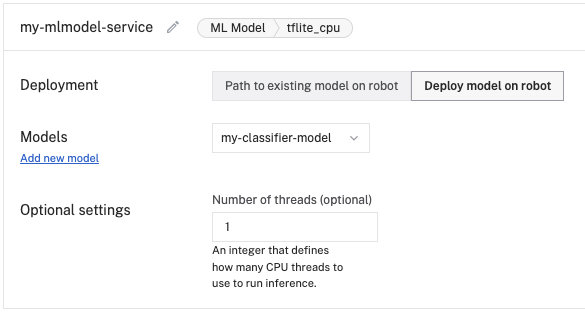
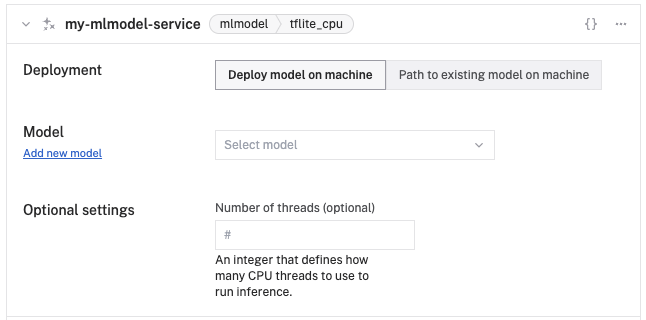
DOCS-1935: Update data-mlmodel tutorial (#2828)

diff --git a/docs/tutorials/services/data-mlmodel-tutorial.md b/docs/tutorials/services/data-mlmodel-tutorial.md
@@ -96,7 +96,7 @@ To enable image data capture for a camera component:
 
 1. Navigate to your machine's **CONFIGURE** page in the [Viam app](https://app.viam.com).
 
-1. In the configuration pane for your [configured camera component](#prerequisites), find the **Data capture** section, and click the **Add method** button to enable data capture for this camera.
+1. In the configuration pane for your [configured camera component](#prerequisites), find the **Data capture** section, and click the **Add method** button to configure data capture for this camera.
 
    - Set the **Method** to `ReadImage` and the **Frequency** to `0.333`.
      This will capture an image from the camera roughly once every 3 seconds.
@@ -106,7 +106,9 @@ To enable image data capture for a camera component:
 
      {{< imgproc src="/tutorials/data-management/camera-data-capture.png" alt="The camera component configuration pane with data capture configuration enabled using type ReadImage and a capture frequency of 0.333" resize="600x" >}}
 
-1. Click **Save Config** at the bottom of the window to save your changes.
+   - Toggle the **On/Off** switch to **On**.
+
+1. Click **Save** at the top right of the window to save your changes.
 
 For more information see [Configure data capture](/data/capture/#configure-data-capture-for-individual-components) and [Configure cloud sync](/data/cloud-sync/).
 
@@ -220,13 +222,15 @@ Once your model has finished training, add the [ML model](/ml/) service and depl
 
 To deploy a model to your machine:
 
-1. On your machine's **CONFIGURE** page in the [Viam app](https://app.viam.com), navigate to the **Services** tab.
-1. Click the **Create service** button at the bottom of the page, and select **ML Model**, then select **TFLite CPU**.
-1. Use the suggested name for your service or give it a name, like `my-mlmodel-service`, then click **Create**.
-1. In the resulting ML Model service configuration pane, select **Deploy model on robot**, then select the model you just trained from the **Models** dropdown menu.
-1. Click **Save Config** at the bottom of the window to save your changes.
+1. Navigate to the **CONFIGURE** tab of your machine's page in [the Viam app](https://app.viam.com).
+1. Click the **+** icon next to your machine part in the left-hand menu and select **Service**.
+1. Select the `ML model` type, then select the `TFLite CPU` model.
+1. Enter a name or use the suggested name, like `my-mlmodel-service`, for your service and click **Create**.
+1. In the resulting ML Model service configuration pane, select **Deploy model on machine**, then select the model you just trained from the **Select model** dropdown menu.
 
    {{< imgproc src="/tutorials/data-management/mlmodel-service-conf.png" alt="The ML model service configuration pane showing the required settings to deploy the my-classifier-model." resize="600x" >}}
+
+1. Click **Save** at the top right of the window to save your changes.
 
 ## The vision service
 
@@ -237,9 +241,9 @@ You can then see the tagged objects on the **Control** tab.
 
 ### Add the vision service
 
-1. On your machine's **CONFIGURE** page in the [Viam app](https://app.viam.com), navigate to the **Services** tab.
-1. Click the **Create service** button at the bottom of the page, and select **Vision**, then select **ML Model**.
-1. Use the suggested name for your service or give it a name, like `my-vision-service`, then click **Create**.
+1. Click the **+** icon next to your machine part in the left-hand menu and select **Service**.
+1. Select the `vision` type, then select the `ML model` model.
+1. Enter a name, like `my-vision-service`, or use the suggested name for your service and click **Create**.
 1. In the resulting vision service configuration pane, select the ML model service you just added from the **ML Model** dropdown menu.
 
    {{< imgproc src="/tutorials/data-management/vision-service-conf.png" alt="The vision service configuration pane showing the ML model service my-mlmodel-service added" resize="500x" >}}

diff --git a/docs/ml/deploy/tflite_cpu.md b/docs/ml/deploy/tflite_cpu.md
@@ -33,9 +33,9 @@ Enter a name or use the suggested name for your service and click **Create**.
 You can choose to configure your service with an existing model on the machine or deploy a model onto your machine:
 
 {{< tabs >}}
-{{% tab name="Deploy Model on Robot" %}}
+{{% tab name="Deploy Model on Machine" %}}
 
-1. To configure your service and deploy a model onto your machine, select **Deploy model on robot** for the **Deployment** field.
+1. To configure your service and deploy a model onto your machine, select **Deploy model on machine** for the **Deployment** field in the resulting vision service configuration pane,.
 
 2. Click on **Select models** to open a dropdown with all of the ML models available to you privately, as well as all of the ML models available in [the registry](https://app.viam.com), which are shared by users.
    Models that your organization has trained that are not uploaded to the registry will appear first in the dropdown.
@@ -128,9 +128,9 @@ The following parameters are available for a `"tflite_cpu"` model:
 | `num_threads` | Optional | An integer that defines how many CPU threads to use to run inference. Default: `1`. |
 
 {{% alert title="Note" color="note" %}}
-If you **Deploy model on robot**, `model_path` and `label_path` will be automatically configured in the format `"${packages.<model_name>}/<model-name>.tflite"` and `"${packages.<model_name>}/labels.txt"` respectively.
+If you **Deploy model on machine**, `model_path` and `label_path` will be automatically configured in the format `"${packages.<model_name>}/<model-name>.tflite"` and `"${packages.<model_name>}/labels.txt"` respectively.
 
-If you take the **Path to existing model on robot** approach, your model and label paths do not have to be in the same format.
+If you take the **Path to existing model on machine** approach, your model and label paths do not have to be in the same format.
 For example, they might resemble `home/models/fruit/my_fruit_model.tflite`.
 {{% /alert %}}
 

diff --git a/docs/tutorials/projects/filtered-camera.md b/docs/tutorials/projects/filtered-camera.md
@@ -235,12 +235,10 @@ Add the ML model service to your machine to be able to deploy and update ML mode
 1. Navigate to your machine's **CONFIGURE** tab in the [Viam app](https://app.viam.com).
 1. Click the **+** (Create) button next to your main part in the left-hand menu and select **Service**, then select the built-in `TFLite CPU` model.
 1. Use the suggested name for your service or give it a name, like `my-mlmodel-service`, then click **Create**.
-1. On the panel that appears, select the **Deploy model on robot** toggle, then select your model from the **Select model** dropdown.
+1. On the panel that appears, select the **Deploy model on machine** toggle, then select your model from the **Select model** dropdown.
    If you don't see your model name appear here, ensure that your model appears under the [**Models** subtab](https://app.viam.com/data/models) of the **DATA** tab in the Viam app.
    If you trained your own model, ensure that the model has finished training and appears under the **Models** section of that page, and not the **Training** section.
 1. Click **Save** in the top right corner of the page to save your changes.
-
-   {{< imgproc src="/tutorials/filtered-camera-module/configure-mlmodel-service.png" alt="The ML model service configuration pane with deploy model on robot selected, and the my-viam-figure-model added" resize="600x" >}}
 
 For more information, see [Create an ML model service](/ml/deploy/).
 

diff --git a/docs/tutorials/projects/integrating-viam-with-openai.md b/docs/tutorials/projects/integrating-viam-with-openai.md
@@ -246,7 +246,7 @@ To configure an ML model service:
 
 Your robot will register this as a machine learning model and make it available for use.
 
-Select **Deploy model on robot** for the **Deployment** field.
+Select **Deploy model on machine** for the **Deployment** field.
 Then select the `viam-labs:EfficientDet-COCO` model from the **Models** dropdown.
 
 Now, create a vision service to visualize your ML model:
@@ -254,13 +254,13 @@ Now, create a vision service to visualize your ML model:
 - Select the **CONFIGURE** tab.
 - Click the **+** icon next to your machine part in the left-hand menu and select **Service**.
 - Select the `vision` type, then select the `ML model` model.
-- Enter the name `vis-stuff-detector` for your service and click **Create**.
+- Enter the name `mlmodel` for your service and click **Create**.
 
 Your companion robot will use this to interface with the machine learning model allowing you to - well, detect stuff!
 
 Select the model that you added in the previous step in the **ML Model** field of your detector:
 
-{{< imgproc src="/tutorials/ai-integration/detector-panel.png" alt="Adding the ML model service to the detector panel." resize="1000x" style="width:450px" >}}
+{{<imgproc src="/services/deploy-model-menu.png" resize="700x" alt="Models dropdown menu with models from the registry.">}}
 
 Click **Save** in the top-right corner of the page to save your config.
 

diff --git a/docs/tutorials/projects/verification-system.md b/docs/tutorials/projects/verification-system.md
@@ -92,7 +92,7 @@ The model can detect a variety of things which you can see in <file>[labels.txt]
 2. Click the **+** icon next to your machine part in the left-hand menu and select **Service**.
 3. Select type `ML model`, then select model `TFLite CPU`.
 4. Enter `persondetect` as the name for your ML model service, then click **Create**.
-5. Select **Deploy model on robot** for the **Deployment** field.
+5. Select **Deploy model on machine** for the **Deployment** field.
 6. Then select the `viam-labs:EfficientDet-COCO` model from the **Select models** dropdown.
 
 Finally, configure an `mlmodel` detector vision service to use your new `"persondetect"` ML model:

diff --git a/docs/tutorials/projects/pet-treat-dispenser.md b/docs/tutorials/projects/pet-treat-dispenser.md
@@ -299,7 +299,7 @@ Once the model has finished training, deploy it by adding an [ML model service](
 1. Click **Create service** in the lower-left corner.
 1. Select `ML Model` as the type, and select `TFLite CPU` as the model.
 1. Enter `puppyclassifier` as the name, then click **Create**.
-1. To configure your service and deploy a model onto your robot, select **Deploy model on robot** for the **Deployment** field.
+1. To configure your service and deploy a model onto your robot, select **Deploy model on machine** for the **Deployment** field.
 1. Select your trained model (`petfeeder`) as your desired **Model**.
 
 ### Use the vision service to detect your pet

diff --git a/docs/ml/vision/mlmodel.md b/docs/ml/vision/mlmodel.md
@@ -47,7 +47,7 @@ Click the **+** icon next to your machine part in the left-hand menu and select 
 Select the `vision` type, then select the `ML model` model.
 Enter a name or use the suggested name for your service and click **Create**.
 
-Select the ML model service your model is deployed on from the **ML Model** dropdown to configure the required `"mlmodel_name"` attribute.
+Select the ML model service your model is deployed on from the **ML Model** dropdown.
 
 Edit other attributes as applicable according to the table below.
 You can edit optional attributes in raw JSON by clicking **{}** (Switch to advanced) on the right side of your service panel.
